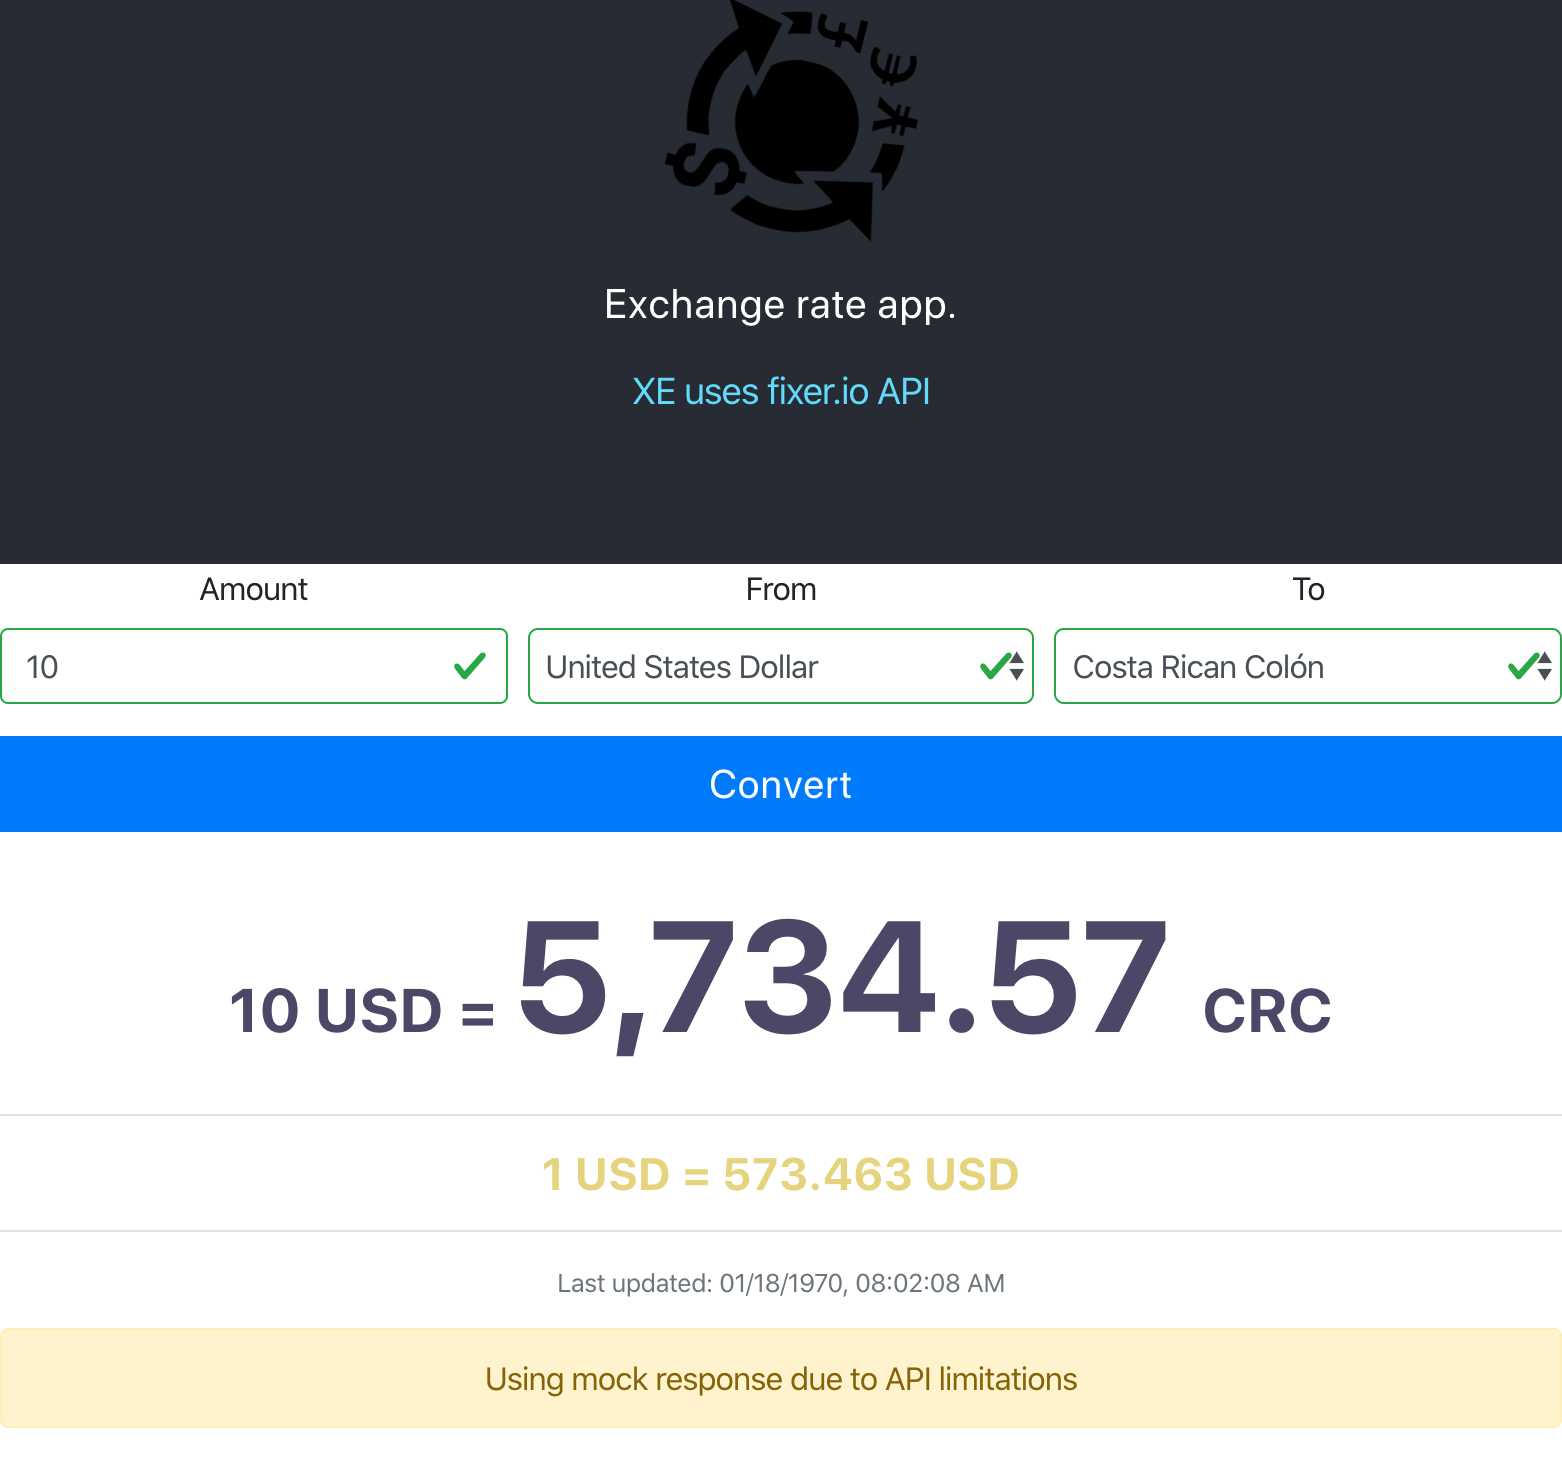
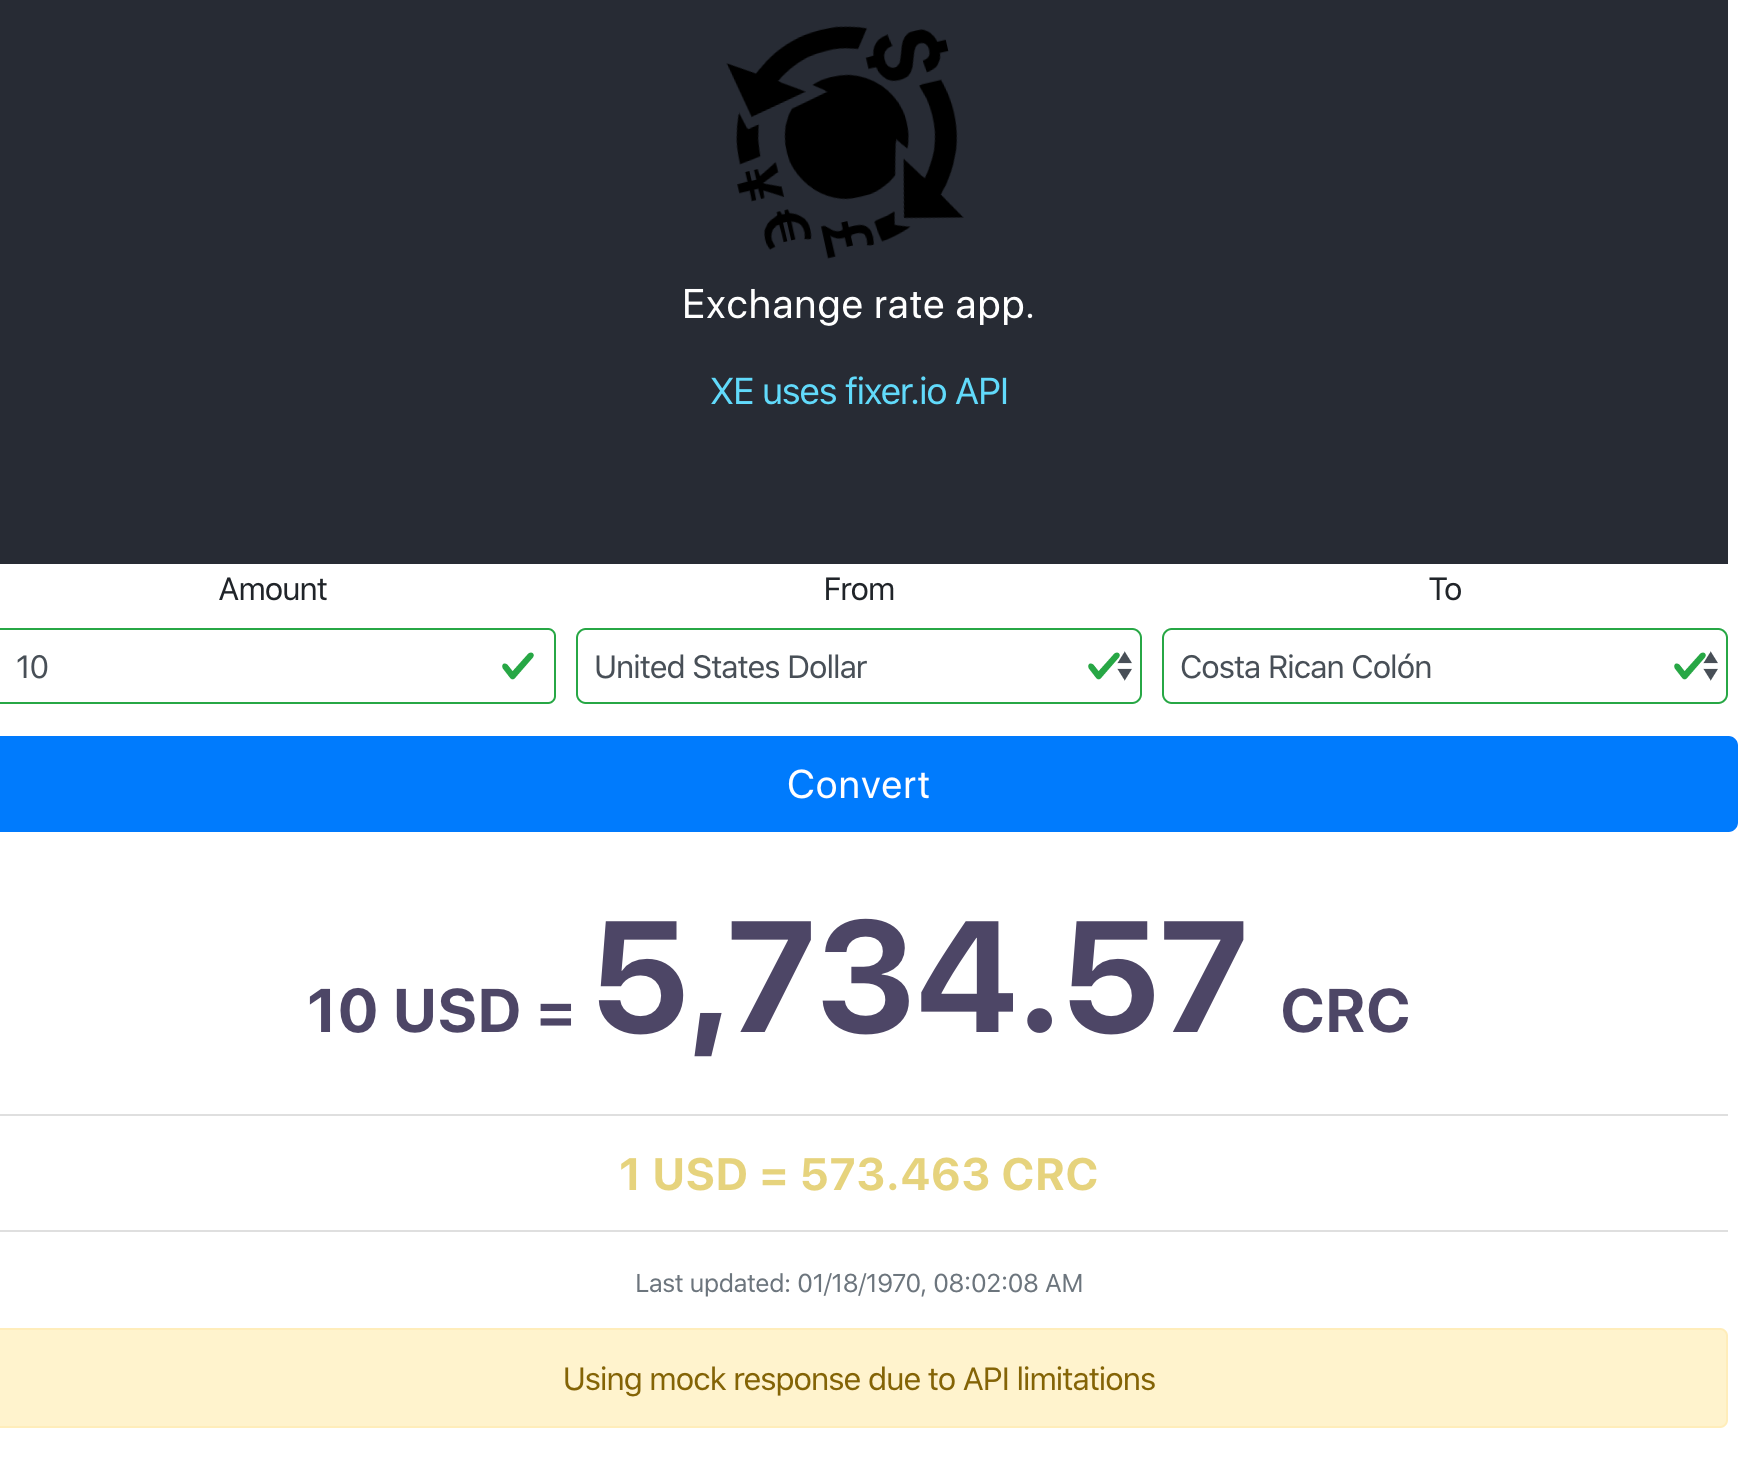
Minor fix

diff --git a/src/content/Form.js b/src/content/Form.js
@@ -229,7 +229,7 @@ class Form extends React.Component {
                         </li>
                         <li className="list-group-item font-weight-bold">
                             <span className="result-sm">
-                                1 { this.state.from } = { this.state.rate } { this.state.from }
+                                1 { this.state.from } = { this.state.rate } { this.state.to }
                             </span>
                         </li>
                         <li className="list-group-item">
